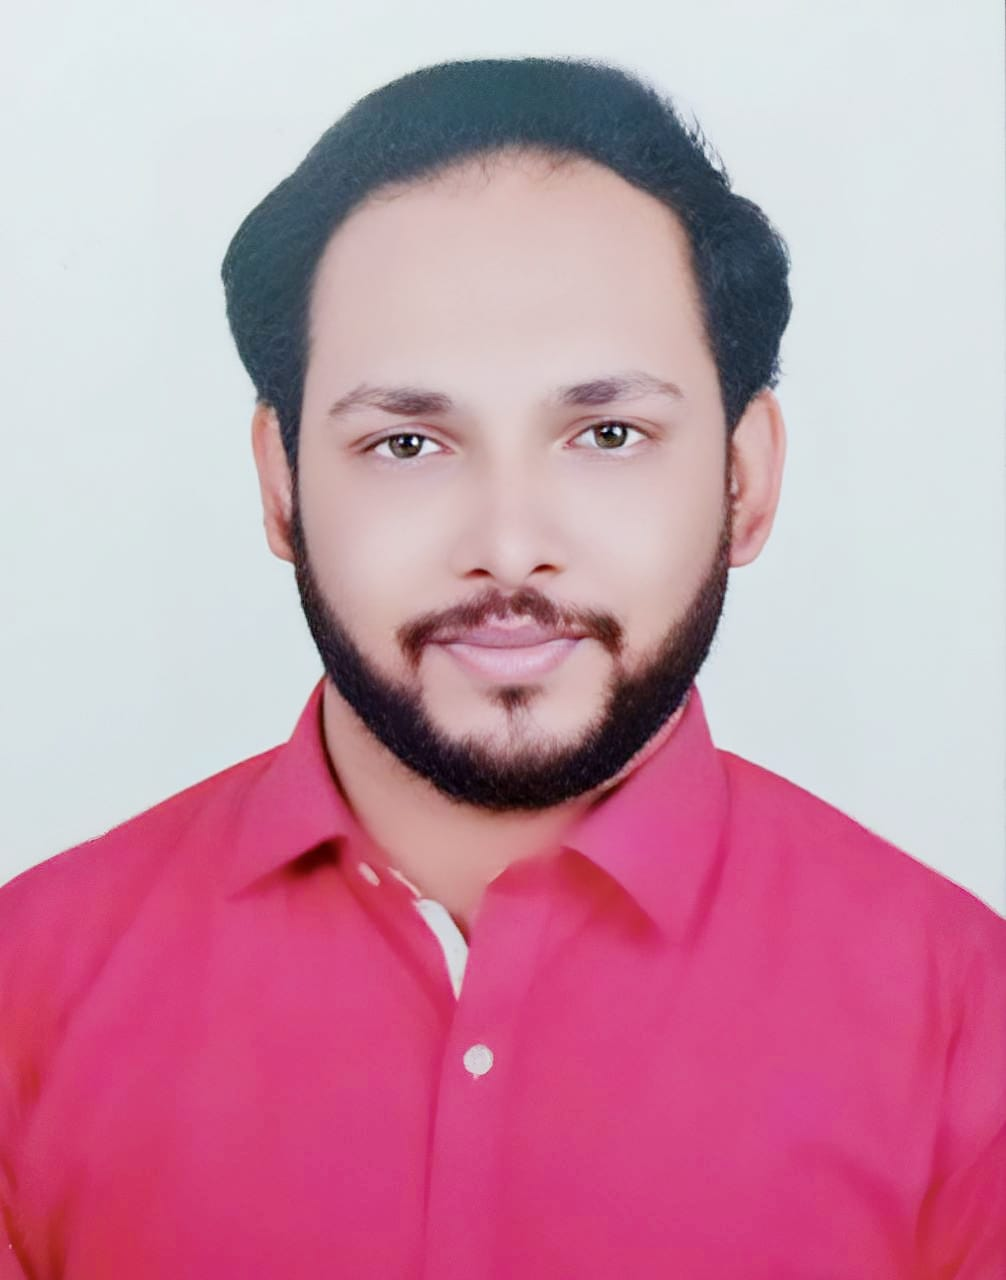
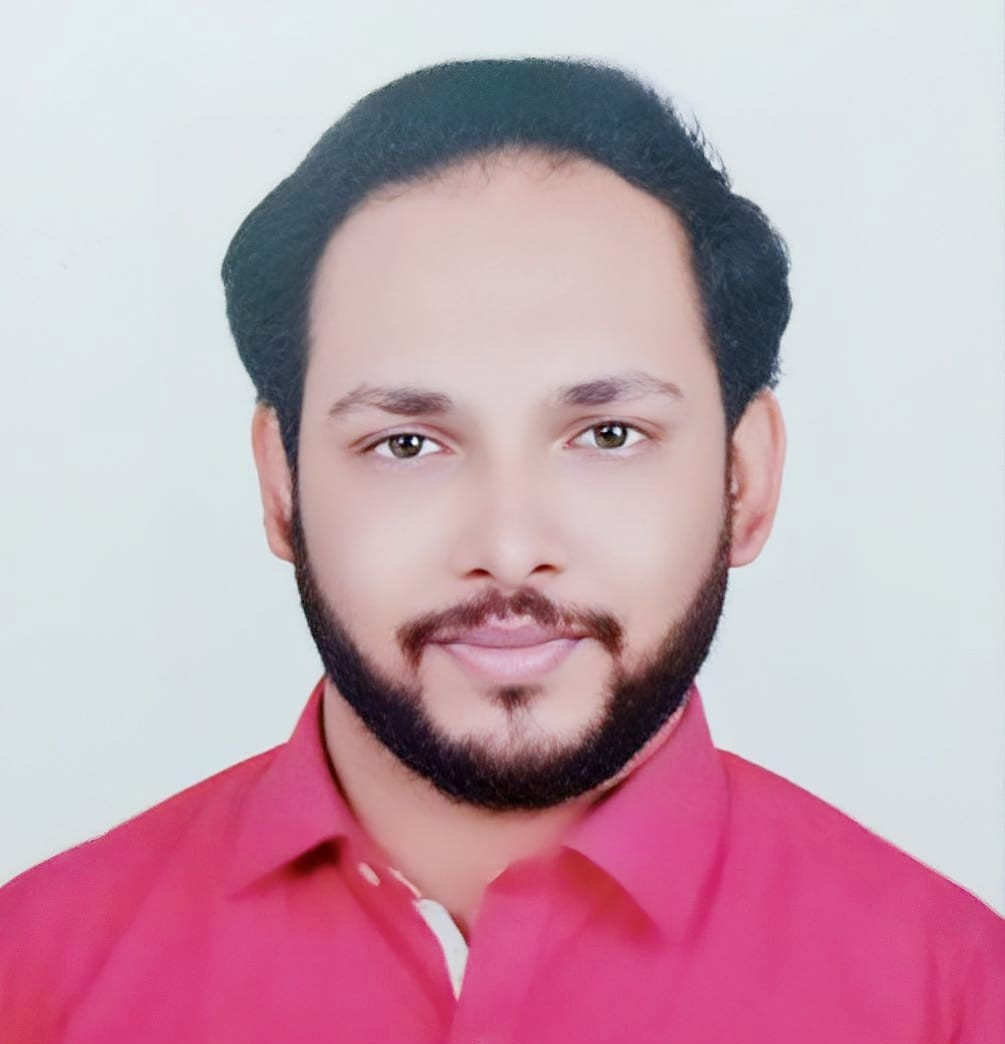
Fixed Responsiveness of Home Page

diff --git a/src/pages/Home/Home.css b/src/pages/Home/Home.css
@@ -10,6 +10,14 @@
   font-weight: 800;
   color: var(--hero-text-title-color);
 }
+.hero_text i {
+  margin: 1em;
+  background-color: white;
+  border-radius: 50%;
+  border: 1px solid var(--secondary-color);
+  padding: 10px;
+  color: var(--secondary-color);
+}
 /* Hero Img */
 .img_wrapper {
   padding: 1em;
@@ -26,7 +34,7 @@
   margin-bottom: 1rem;
   border: 0.5rem solid var(--secondary-color);
 }
-.hero_wrapper {
+.content_wrapper {
   margin: 0;
   padding: 0;
   height: calc(100vh - 60px);
@@ -34,4 +42,64 @@
   display: flex;
   justify-content: center;
   align-items: center;
+}
+
+/* Media Queries */
+
+/* Medium Devices */
+@media only screen and (max-width: 600px) {
+  .content_wrapper,
+  .hero_img {
+    margin: 0 !important;
+    padding: 0;
+  }
+  .home .content_wrapper {
+    align-items: start;
+    height: 40vh !important;
+  }
+  .hero_text h1 {
+    font-size: 1.5em !important;
+  }
+  .hero_text h2 {
+    font-size: 1.2em !important;
+  }
+  .contact_icons {
+    display: flex;
+    align-items: center;
+    justify-content: center;
+  }
+}
+/* Small Devices */
+@media only screen and (max-width: 355px) {
+  .hero_img img {
+    height: 12em !important;
+    width: 12em !important;
+  }
+  .hero_text h2 {
+    font-size: 1em !important;
+  }
+}
+
+/* Tablet Devices */
+@media only screen and (min-width: 600px) and (max-width: 900px) {
+  .content_wrapper,
+  .hero_img {
+    margin: 2rem !important;
+    padding: 1rem;
+  }
+  .home .content_wrapper {
+    align-items: start;
+    height: 40vh !important;
+  }
+  .hero_text h1 {
+    font-size: 2em !important;
+  }
+  .hero_text h2 {
+    font-size: 1.5em !important;
+  }
+  .contact_icons {
+    display: flex;
+    align-items: center;
+    justify-content: center;
+  }
 }

diff --git a/src/pages/Home/Home.jsx b/src/pages/Home/Home.jsx
@@ -1,5 +1,5 @@
 import "../../assets/css/common.css";
-import profileImage from "../../assets/images/harsh_photo3.jpg";
+import profileImage from "../../assets/images/harsh_photo.jpg";
 import "./Home.css";
 const Home = () => {
   return (
@@ -15,6 +15,21 @@ const Home = () => {
                 <h2>
                   I am into <span>Frontend Development</span>
                 </h2>
+                <div className="contact_icons">
+                  <a
+                    href="https://www.linkedin.com/in/harsh-ashok-athavale/"
+                    target="_blank"
+                    rel="noreferrer"
+                  >
+                    <i className="fa fa-linkedin"></i>
+                  </a>
+                  <a href="https://github.com/Harsh-Athavale-19" target="_blank" rel="noreferrer">
+                    <i className="fa fa-github"></i>
+                  </a>
+                  <a href="mailto:harshashokathavale@gmail.com">
+                    <i className="fa fa-envelope"></i>
+                  </a>
+                </div>
               </div>
             </div>
 

diff --git a/index.html b/index.html
@@ -13,11 +13,8 @@
       crossorigin="anonymous"
     />
 
-    <!-- font awesome cdn link -->
-    <link
-      rel="stylesheet"
-      href="https://cdnjs.cloudflare.com/ajax/libs/font-awesome/6.4.0/css/all.min.css"
-    />
+    <!-- font awesome link -->
+    <script src="https://kit.fontawesome.com/270a5998ba.js" crossorigin="anonymous"></script>
   </head>
   <body>
     <div id="root"></div>

diff --git a/src/App.css b/src/App.css
@@ -22,6 +22,7 @@
 
 section {
   min-height: 100vh;
+  padding-top: 60px;
 }
 body {
   position: relative;
